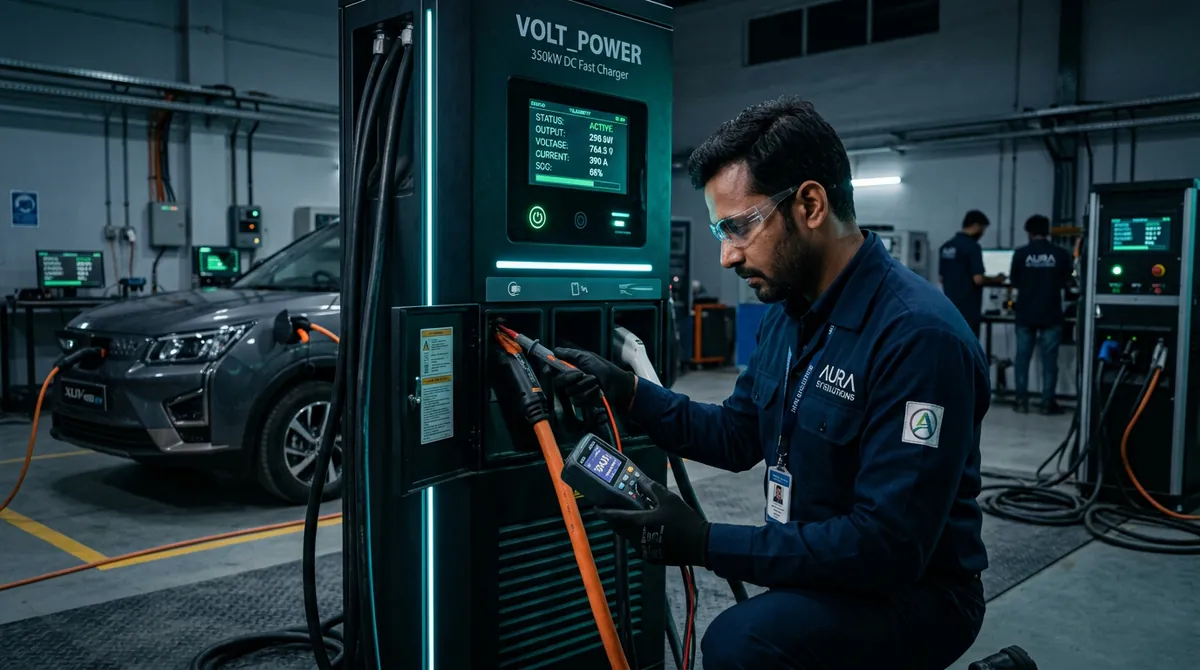
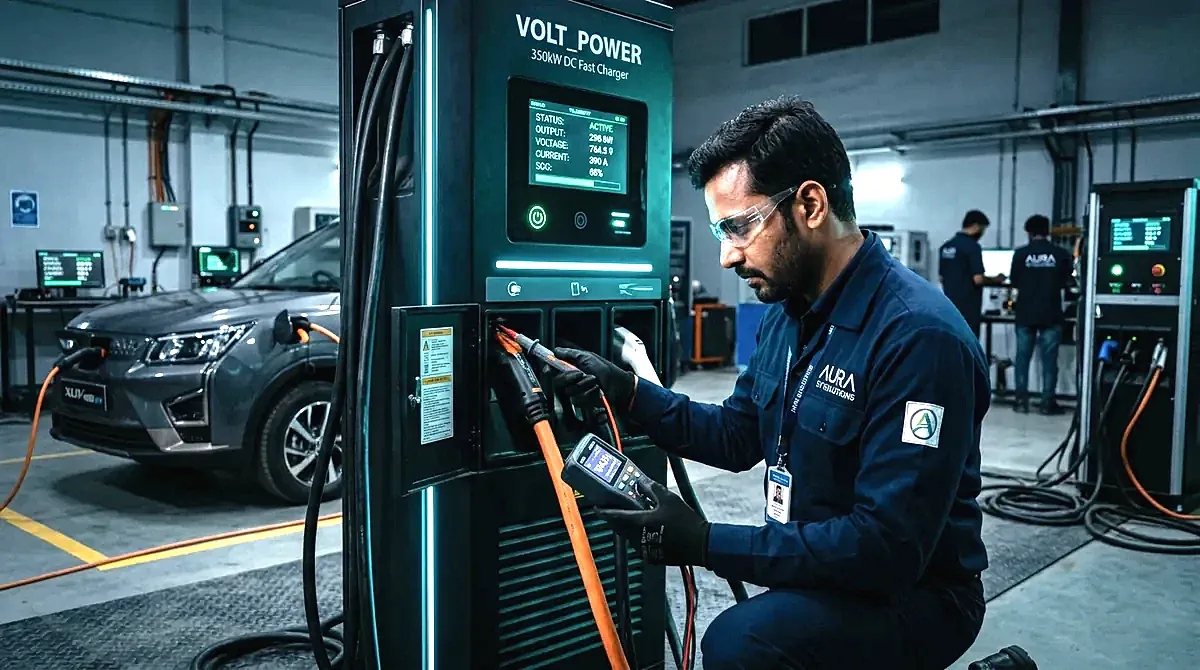
fix: brighten engineered for india card image and soften dark overlay

diff --git a/src/sections/home/WhyAxionSection.jsx b/src/sections/home/WhyAxionSection.jsx
@@ -82,41 +82,41 @@ const Card = ({ image, badge, icon: Icon, title, desc, delay, span, height }) =>
     transition={{ duration: 0.8, delay, ease: [0.22, 1, 0.36, 1] }}
     className={`relative rounded-3xl overflow-hidden group cursor-pointer ${span} ${height}`}
   >
-    {/* Background image */}
+    {/* Background image - brightened and vivid */}
     <img
       src={image}
       alt={title}
       loading="lazy"
       decoding="async"
-      className="absolute inset-0 w-full h-full object-cover transition-transform duration-[2.5s] group-hover:scale-110 opacity-80 group-hover:opacity-100 group-hover:brightness-110"
+      className="absolute inset-0 w-full h-full object-cover transition-transform duration-[2.5s] group-hover:scale-105 opacity-95 group-hover:opacity-100 brightness-[1.06] contrast-[1.02]"
     />
 
-    {/* Dark gradient overlays - reduced to let image shine through */}
-    <div className="absolute inset-0 bg-gradient-to-t from-[#020403] via-[#020403]/50 to-transparent" />
-    <div className="absolute inset-0 bg-gradient-to-r from-[#020403]/40 to-transparent" />
+    {/* Light gradient overlays - subtle text protection while keeping image bright */}
+    <div className="absolute inset-0 bg-gradient-to-t from-[#020403]/90 via-[#020403]/30 to-transparent pointer-events-none" />
+    <div className="absolute inset-0 bg-gradient-to-r from-[#020403]/25 via-transparent to-transparent pointer-events-none" />
 
     {/* Neon border glow on hover */}
-    <div className="absolute inset-0 rounded-3xl ring-1 ring-inset ring-white/5 group-hover:ring-[var(--color-accent)]/40 transition-all duration-500" />
+    <div className="absolute inset-0 rounded-3xl ring-1 ring-inset ring-white/10 group-hover:ring-[var(--color-accent)]/50 transition-all duration-500 pointer-events-none" />
     {/* Green ambient glow */}
-    <div className="absolute inset-0 bg-[radial-gradient(circle_at_bottom_left,rgba(var(--color-accent-rgb),0.12),transparent_60%)] opacity-0 group-hover:opacity-100 transition-opacity duration-700" />
+    <div className="absolute inset-0 bg-[radial-gradient(circle_at_bottom_left,rgba(var(--color-accent-rgb),0.12),transparent_60%)] opacity-0 group-hover:opacity-100 transition-opacity duration-700 pointer-events-none" />
 
     {/* Content */}
     <div className="relative z-10 h-full flex flex-col justify-end p-8 md:p-10">
       {/* Badge + icon */}
       <div className="flex items-center gap-3 mb-5">
-        <div className="w-10 h-10 rounded-full bg-black/60 border border-accent/30 flex items-center justify-center backdrop-blur-md group-hover:border-accent/80 group-hover:bg-accent/10 group-hover:shadow-[0_0_20px_rgba(var(--color-accent-rgb),0.3)] transition-all duration-500 flex-shrink-0">
+        <div className="w-10 h-10 rounded-full bg-black/60 border border-accent/40 flex items-center justify-center backdrop-blur-md group-hover:border-accent group-hover:bg-accent/15 group-hover:shadow-[0_0_20px_rgba(var(--color-accent-rgb),0.4)] transition-all duration-500 flex-shrink-0">
           <Icon className="text-accent w-4 h-4" strokeWidth={1.5} />
         </div>
-        <span className="text-accent font-mono text-[0.65rem] uppercase tracking-[0.25em] font-bold">{badge}</span>
+        <span className="text-accent font-mono text-[0.65rem] uppercase tracking-[0.25em] font-bold drop-shadow-[0_0_8px_rgba(var(--color-accent-rgb),0.5)]">{badge}</span>
       </div>
 
       {/* Title */}
-      <h4 className="text-white font-display font-bold text-2xl md:text-3xl uppercase tracking-tight mb-3 group-hover:text-accent transition-colors duration-500 leading-tight drop-shadow-lg">
+      <h4 className="text-white font-display font-bold text-2xl md:text-3xl uppercase tracking-tight mb-3 group-hover:text-accent transition-colors duration-500 leading-tight drop-shadow-[0_2px_10px_rgba(0,0,0,0.8)]">
         {title}
       </h4>
 
       {/* Description */}
-      <p className="text-white/55 font-sans text-sm leading-relaxed group-hover:text-white/80 transition-colors duration-500 max-w-sm">
+      <p className="text-white/80 font-sans text-sm leading-relaxed group-hover:text-white transition-colors duration-500 max-w-sm drop-shadow-[0_2px_8px_rgba(0,0,0,0.8)]">
         {desc}
       </p>
     </div>
